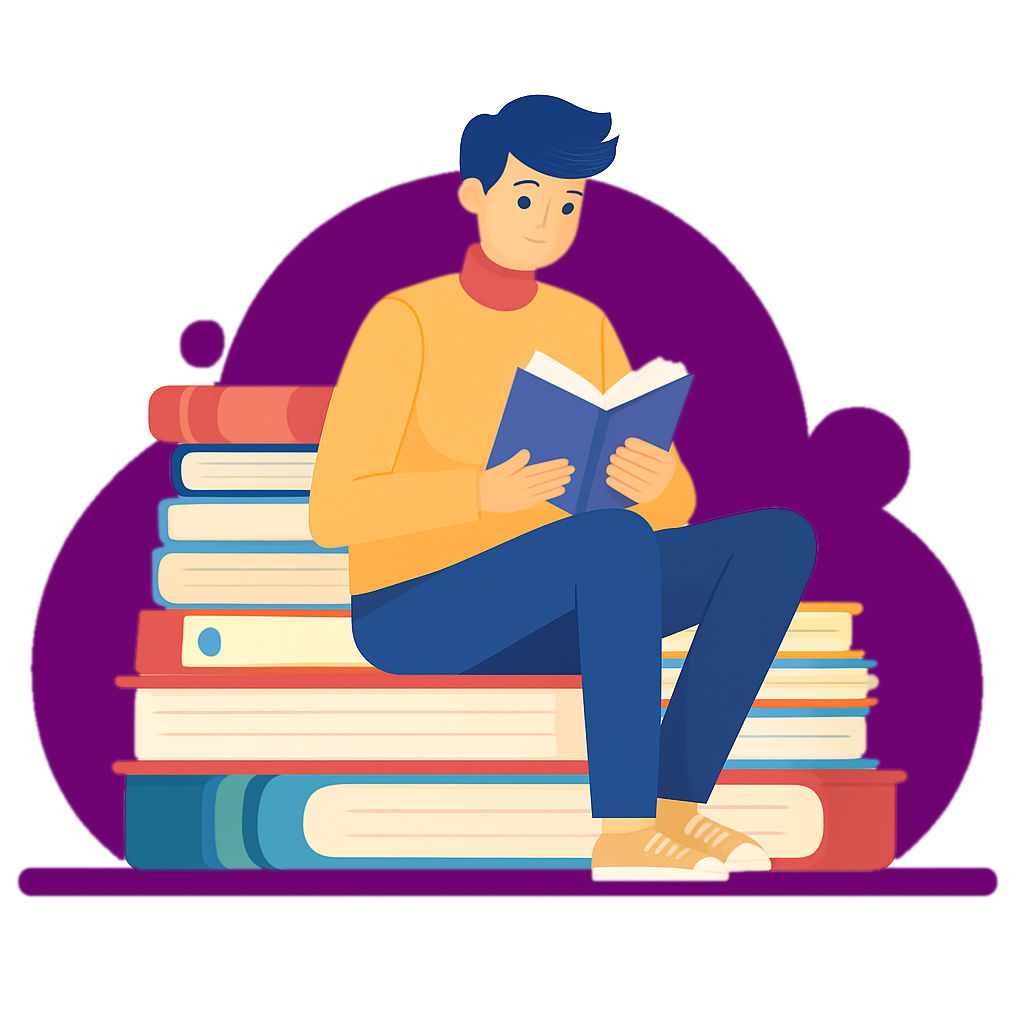
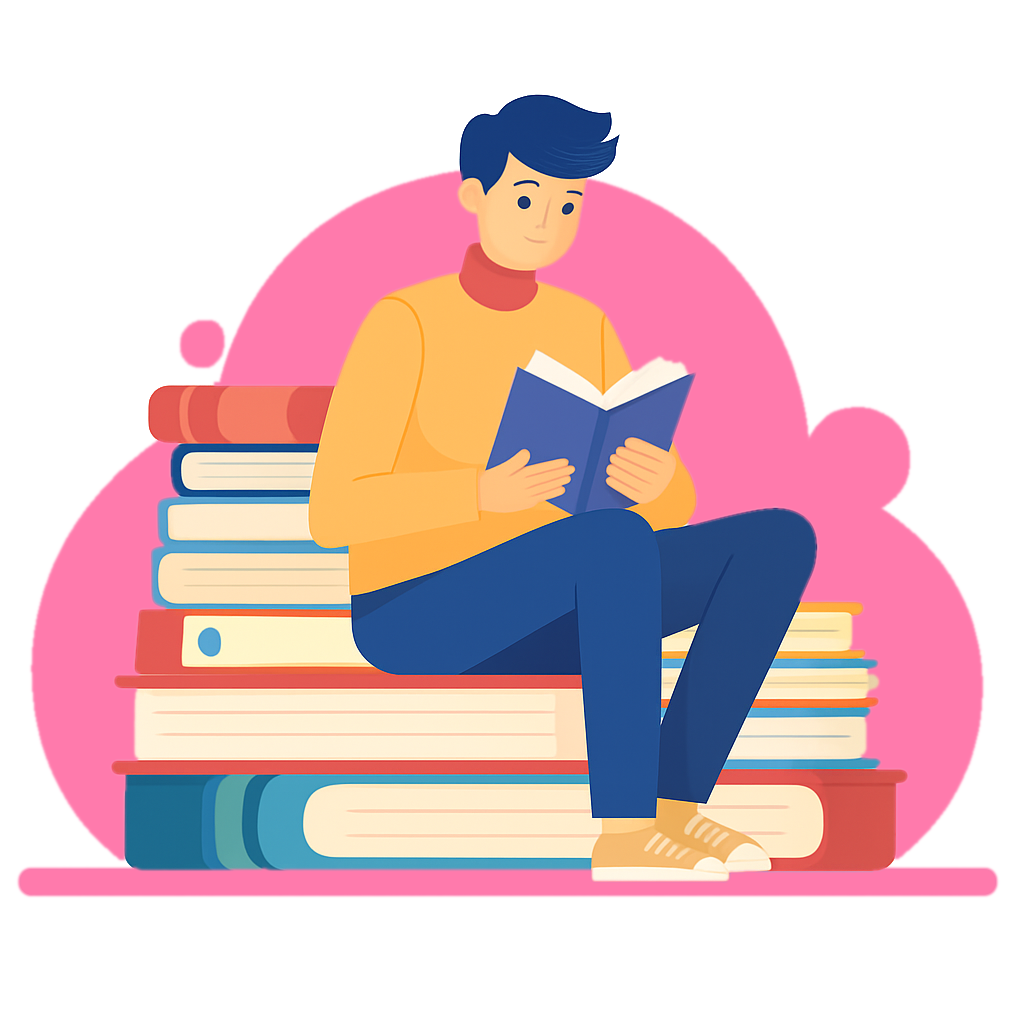
tazbeet

Changed region(s): [[0.0, 0.1562, 1.0, 0.875], [0.1562, 0.1562, 0.4688, 0.375]]

diff --git a/main.css b/main.css
@@ -1,5 +1,6 @@
 :root {
-    --primary-color: #78B3CE;
+    /* --primary-color: #78B3CE; */
+    --primary-color: #ff7aac;
     --secondary-color: #C9E6F0;
     --third-color: white;
     --forth-color: #FBF8EF;
@@ -294,6 +295,7 @@ p {
 }
 
 .main-blanket-background {
+    overflow: hidden;
     display: flex;
     align-items: center;
     justify-content: center;
@@ -302,6 +304,58 @@ p {
     margin: 0px;
     padding: 0px;
 }
+
+.circle-blur {
+    position: absolute;
+    top: 30%;
+    left: 40%;
+    width: 250px;
+    height: 250px;
+    background-color: #6e0371;
+    border-radius: 50%;
+    filter: blur(70px);
+    opacity: 0.3;
+    z-index: -1;
+    animation: float 10s ease-in-out infinite;
+
+}
+
+.circle-blur.two {
+    position: absolute;
+    top: 60%;
+    left: 50%;
+    width: 300px;
+    height: 300px;
+    background-color: #9900ff;
+    border-radius: 50%;
+    opacity: 0.2;
+    z-index: -1;
+    animation: float 10s ease-in-out infinite;
+
+}
+
+@keyframes float {
+    0% {
+        transform: translate(0px, 0px);
+    }
+
+    25% {
+        transform: translate(7px, -5px);
+    }
+
+    50% {
+        transform: translate(-7px, 5px);
+    }
+
+    75% {
+        transform: translate(6px, -1px);
+    }
+
+    100% {
+        transform: translate(0px, 0px);
+    }
+}
+
 
 .main-blanket-elements {
     margin: 0px;
@@ -315,8 +369,9 @@ p {
 
 
 
+
 .main-title>* {
-    line-height: 8rem;
+    line-height: 8.3rem;
     letter-spacing: -0.3rem;
     font-weight: 500;
     font-size: 8rem;
@@ -337,7 +392,7 @@ p {
     font-size: 13rem;
     font-weight: 900;
     font-family: 'Dancing Script', sans-serif, italic;
-    background: linear-gradient(135deg, var(--primary-color), #fa67ff);
+    background: linear-gradient(135deg, #f36aff, #ff2679);
     -webkit-background-clip: text;
     -webkit-text-fill-color: transparent;
 
@@ -361,6 +416,7 @@ p {
         max-width: 100vw;
         margin: 0px;
         padding: 0px;
+        overflow: hidden;
     }
 
 
@@ -387,7 +443,7 @@ p {
         font-size: 8rem;
         font-weight: 900;
         font-family: 'Dancing Script', sans-serif, italic;
-        background: linear-gradient(135deg, var(--primary-color), #fa67ff);
+        background: linear-gradient(135deg, var(--primary-color), #a400aa);
         -webkit-background-clip: text;
         -webkit-text-fill-color: transparent;
 
@@ -402,6 +458,58 @@ p {
         max-width: 30rem;
     }
 }
+
+.CTA {
+    line-height: 4rem;
+    letter-spacing: 0rem;
+    display: flex;
+    position: relative;
+    align-items: center;
+    justify-content: center;
+    overflow: hidden;
+    font-weight: 500;
+    font-family: 'Oswald', sans-serif;
+    font-size: 2rem;
+    background-color: var(--primary-color);
+    border: 2px solid var(--primary-color);
+    color: black;
+    box-shadow: none;
+    margin-top: 3rem;
+    margin-left: 0rem;
+    width: 20rem;
+    height: 5rem;
+    z-index: 0;
+    box-shadow: 0 5px 0px #af4e73;
+    transition: transform 0.2s ease;
+}
+
+.CTA::before {
+    content: "";
+    position: absolute;
+    top: 0;
+    left: -100%;
+    width: 100%;
+    height: 100%;
+    background-color: var(--primary-color);
+    z-index: -1;
+    transition: left 0.4s ease;
+}
+
+.CTA:hover::before {
+    left: 0;
+}
+
+
+.CTA:hover {
+    cursor: pointer;
+    transform: scale(1.03);
+}
+
+.CTA:hover span {
+    color: white;
+}
+
+
 
 /* ========================== Section Divider ========================== */
 
@@ -428,11 +536,15 @@ p {
 
 .our-courses-title {
     margin: 0.1rem;
+    margin-top: 50px;
     color: white;
     text-align: center;
     align-items: center;
     font-weight: 400;
-    font-size: clamp(3rem, 3vw, 5rem);
+    text-shadow: 3px 3px 0px black;
+    text-shadow: 4px 3px 0px black;
+    text-shadow: 4px 4px 0px black;
+    font-size: clamp(3rem, 5vw, 5rem);
     font-family: "Oswald";
 }
 
@@ -440,6 +552,7 @@ p {
 
 
 .oc-card {
+    overflow: hidden;
     box-shadow: 0 0px 6px rgba(0, 0, 0, 0.3);
     /* padding: 1.2rem; */
     display: flex;
@@ -464,12 +577,13 @@ p {
 }
 
 .oc-card img {
+    aspect-ratio: 16/9;
+    object-fit: cover;
     /* margin-top: 1.5rem; */
     border-radius: 40px;
     border-bottom-left-radius: 0px;
     border-bottom-right-radius: 0px;
     width: 100%;
-    height: auto;
 }
 
 
@@ -579,6 +693,10 @@ p {
     position: relative;
     z-index: 1;
     transition: color 0.4s ease;
+}
+
+.oc-card button i {
+    font-size: 30px;
 }
 
 .oc-card button:hover {

diff --git a/index.html b/index.html
@@ -41,6 +41,9 @@
         <!----------------------------- Section Divider ----------------------------->
         <section class="main-blanket">
             <div class="main-blanket-background">
+                <div class="circle-blur"></div>
+                <div class="circle-blur two"></div>
+
                 <div class="main-blanket-elements">
                     <img src="imgs/Main.png" class="main-logo">
                     <div class="main-title">
@@ -51,22 +54,24 @@
                             <br>TO BE
                         </span>
                         <span class="fluent">Fluent.</span>
+                        <button class="CTA">Get Started</button>
                     </div>
+
                 </div>
             </div>
         </section>
         <!----------------------------- Section Divider ----------------------------->
-    
-     <h1 class="presentation"> Supercharge your skills with lingrow courses</h1>
+
+        <h1 class="presentation"> Supercharge your skills with lingrow courses</h1>
 
         <section class="containers">
-    
+
             <div class="first-course">
 
 
                 <img class="reading" src="/imgs/reading.jpg">
 
-                <p  class="cardtitle">Reading course</p>
+                <p class="cardtitle">Reading course</p>
                 <p> ✦ Read Faster, Understand More </p>
                 <p>
                     ✦ Every session has shadowing practice
@@ -131,11 +136,40 @@
                         <button><span>MORE</span></button>
                     </div>
                 </div>
-                <div class="oc-card dif">
+                <!------------------- CARD  ------------------->
 
-                </div>
+                <!------------------- CARD  ------------------->
                 <div class="oc-card">
+                    <img src="/imgs/speaking.png">
+                    <p class="card-title">SayIt Right</p>
+                    <p>Master the art of clear and confident English speaking. SayIt Right helps you improve
+                        pronunciation, fluency, and speaking skills for real-life conversations, interviews, and exams
+                        like IELTS — all in a fun, supportive environment.</p>
+                    <div class="card-footer">
+                        <div class="duration">
+                            <i class="fas fa-clock"></i>
+                            <span>+50 HRS</span>
+                        </div>
+                        <button><span>MORE</span></button>
+                    </div>
+                </div>
+                <!------------------- CARD  ------------------->
 
+                <!------------------- CARD  ------------------->
+                <div class="oc-card">
+                    <img
+                        src="https://i0.wp.com/wp.lingoleap.ai/wp-content/uploads/2024/03/toefl.jpg?resize=1024%2C576&ssl=1">
+                    <p class="card-title">TOFEL Preparation</p>
+                    <p>Sharpen your English skills and get ready for the TOEFL test. This course covers Reading,
+                        Listening, Speaking, and Writing with strategies, practice tests, and expert tips to help you
+                        reach your target score.</p>
+                    <div class="card-footer">
+                        <div class="duration">
+                            <i class="fas fa-clock"></i>
+                            <span>+5 HRS</span>
+                        </div>
+                        <button><span>MORE</span></button>
+                    </div>
                 </div>
                 <!------------------- CARD  ------------------->
 
